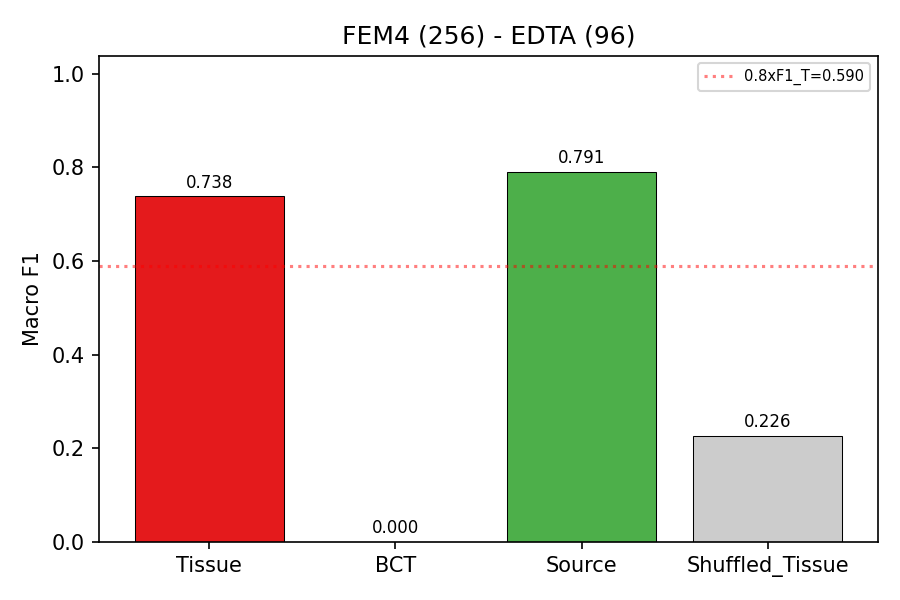
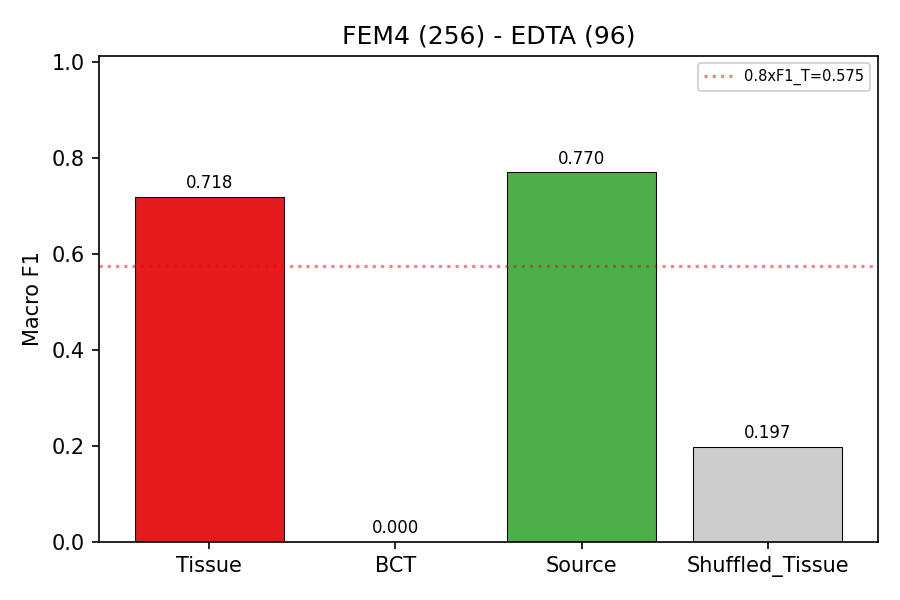
Fix FEM4 duplicate sample rows in diagnostic loader (#11)
ALL_fem4_features.tsv has 5 sample IDs each twice (198 unique over 203
rows); the diagnostic loader lacked the dedup data_loading.py has, so
n=169/101 passed the metadata mask instead of 164/96. Add the same
df.index.duplicated(keep='first') block; rerun FEM4 confound diagnostic
both scopes; regenerate permanova_vp_results.csv and figures. CONTEXT.md:
add All-NaN Feature and Order Dependence glossary entries.

diff --git a/scripts/run_diagnostic_parallel.py b/scripts/run_diagnostic_parallel.py
@@ -108,6 +108,11 @@ def load_modality(cfg, meta_samples):
                 df.drop(columns=[col], inplace=True)
         if cfg['sample_col'] in df.columns:
             df.set_index(cfg['sample_col'], inplace=True)
+        # Deduplicate: keep first occurrence per sample ID (matches data_loading.py)
+        dup_mask = df.index.duplicated(keep='first')
+        if dup_mask.any():
+            log(f"  Dropping {dup_mask.sum()} duplicate sample rows")
+            df = df[~dup_mask]
         X = df.values.astype(np.float64)
         sample_ids = df.index.values
         feat_names = df.columns.values

diff --git a/CONTEXT.md b/CONTEXT.md
@@ -68,6 +68,10 @@ _Avoid_: Missingness alone (ambiguous with per-feature missingness)
 The fraction of samples where a feature is missing (NaN). Its extremes are the all-NaN features (NaN in every sample). Long-format methylation files express this structurally: an absent sample×probe (or sample×CpG) row is a missing value.
 _Avoid_: Missingness alone (ambiguous with per-sample missingness)
 
+**All-NaN Feature**:
+A feature (e.g. a CpG site) with zero observed values across all samples. Dropped before any analysis; **un-imputable** — no observed values exist to impute from, and a mean-imputed all-NaN feature is a constant with zero variance, carrying no information. Counts: 70 (per-CpG unenriched), 1,156 (per-CpG enriched), 0 (all probe-averaged versions).
+_Avoid_: "70 instances of NaNs" (they are features, not cells), "impute them"
+
 **Coverage (Methylation)**:
 The number of sequencing reads observed at a probe region or individual CpG site — the `n_reads` / `CpG_total` / `total_count` columns from which beta fractions are computed. Coverage drives missingness: sites below effective coverage are absent (NaN) from the feature matrix.
 _Avoid_: Depth (colloquial; file columns use read counts)
@@ -169,6 +173,16 @@ Temporal effects (reagent lot, sequencing run, protocol drift) could produce spu
 ### Sex confound
 
 Sowalsky samples (all prostate, 20 samples) are 100% male. Other sources skew male (Fox Chase 80%, Audubon 65%, NIH 54%). The dataset overall is male-dominated (125 of 164).
+
+## Order Dependence
+
+**Order-Independent Attribution (Type II / Type III / Marginal)**:
+Variance attribution that does not depend on covariate order. Variance partitioning uses Type II sums of squares (each term's SS after all *other* terms, no interactions); PERMANOVA headline results use marginal (Type III) tests. Both answer "what does this covariate uniquely explain given everything else" — the answer does not change with covariate ordering.
+_Avoid_: "in order" when describing these methods (slide wording pitfall — the covariate *list* has an order, the attribution does not)
+
+**Entry-Order Sensitivity**:
+The robustness check that *does* depend on order: sequential (Type I) runs with each covariate entering first/last, used to bracket shared variance between covariates. Numbers change across orderings (e.g. FEM4 BCT R² 0.155 entering first vs 0.018 marginal); conclusions are invariant (Tissue retains the largest unique component in every ordering tested).
+_Avoid_: treating entry-order sensitivity as the headline result, or claiming "order doesn't matter" without the marginal-vs-sequential distinction
 
 ## Data Quality
 
